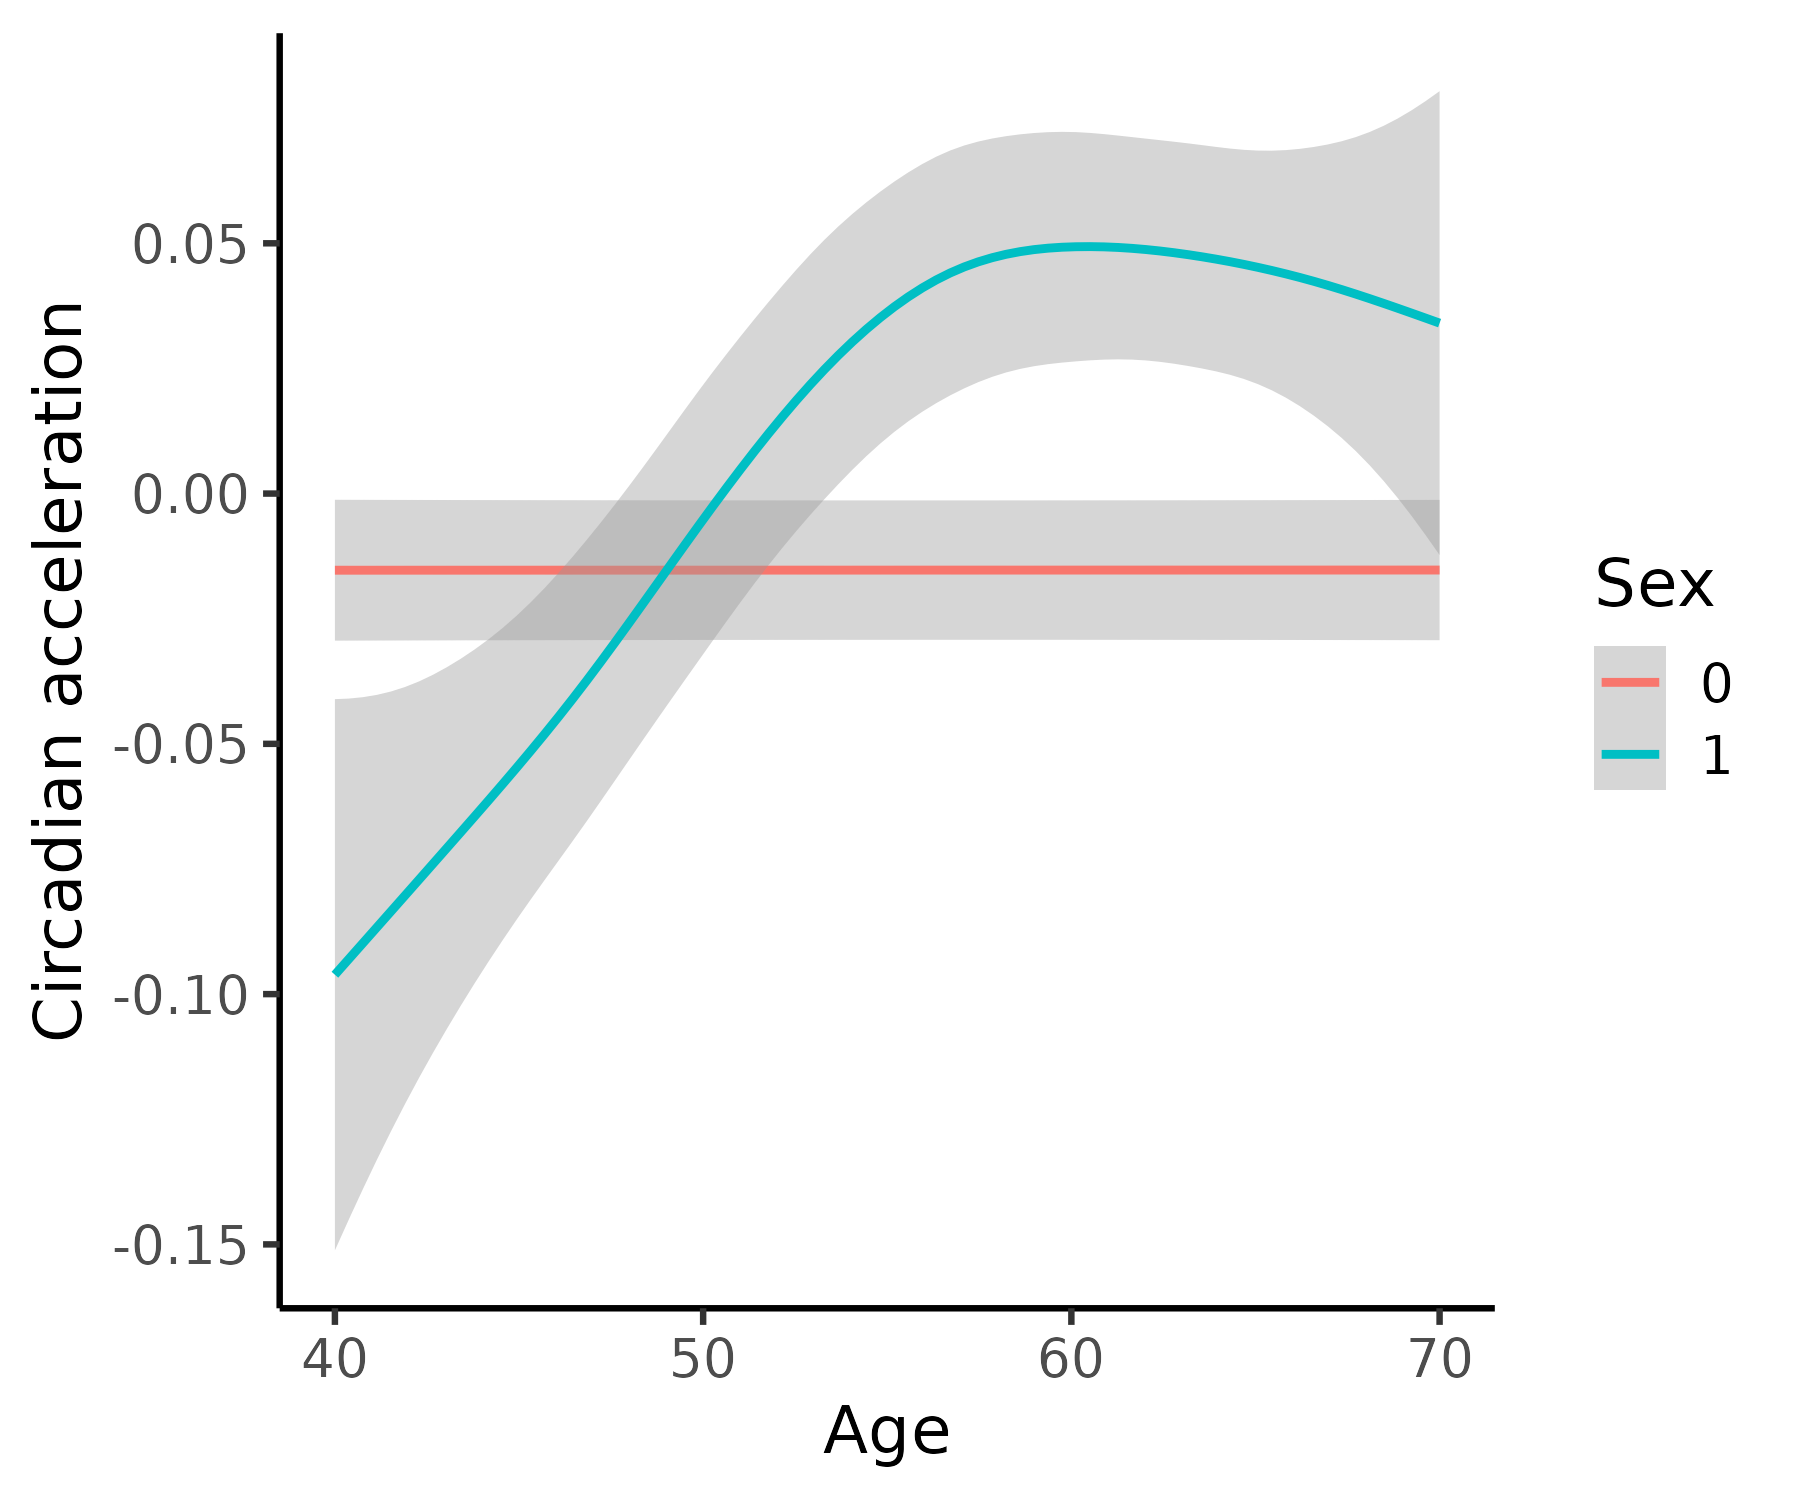
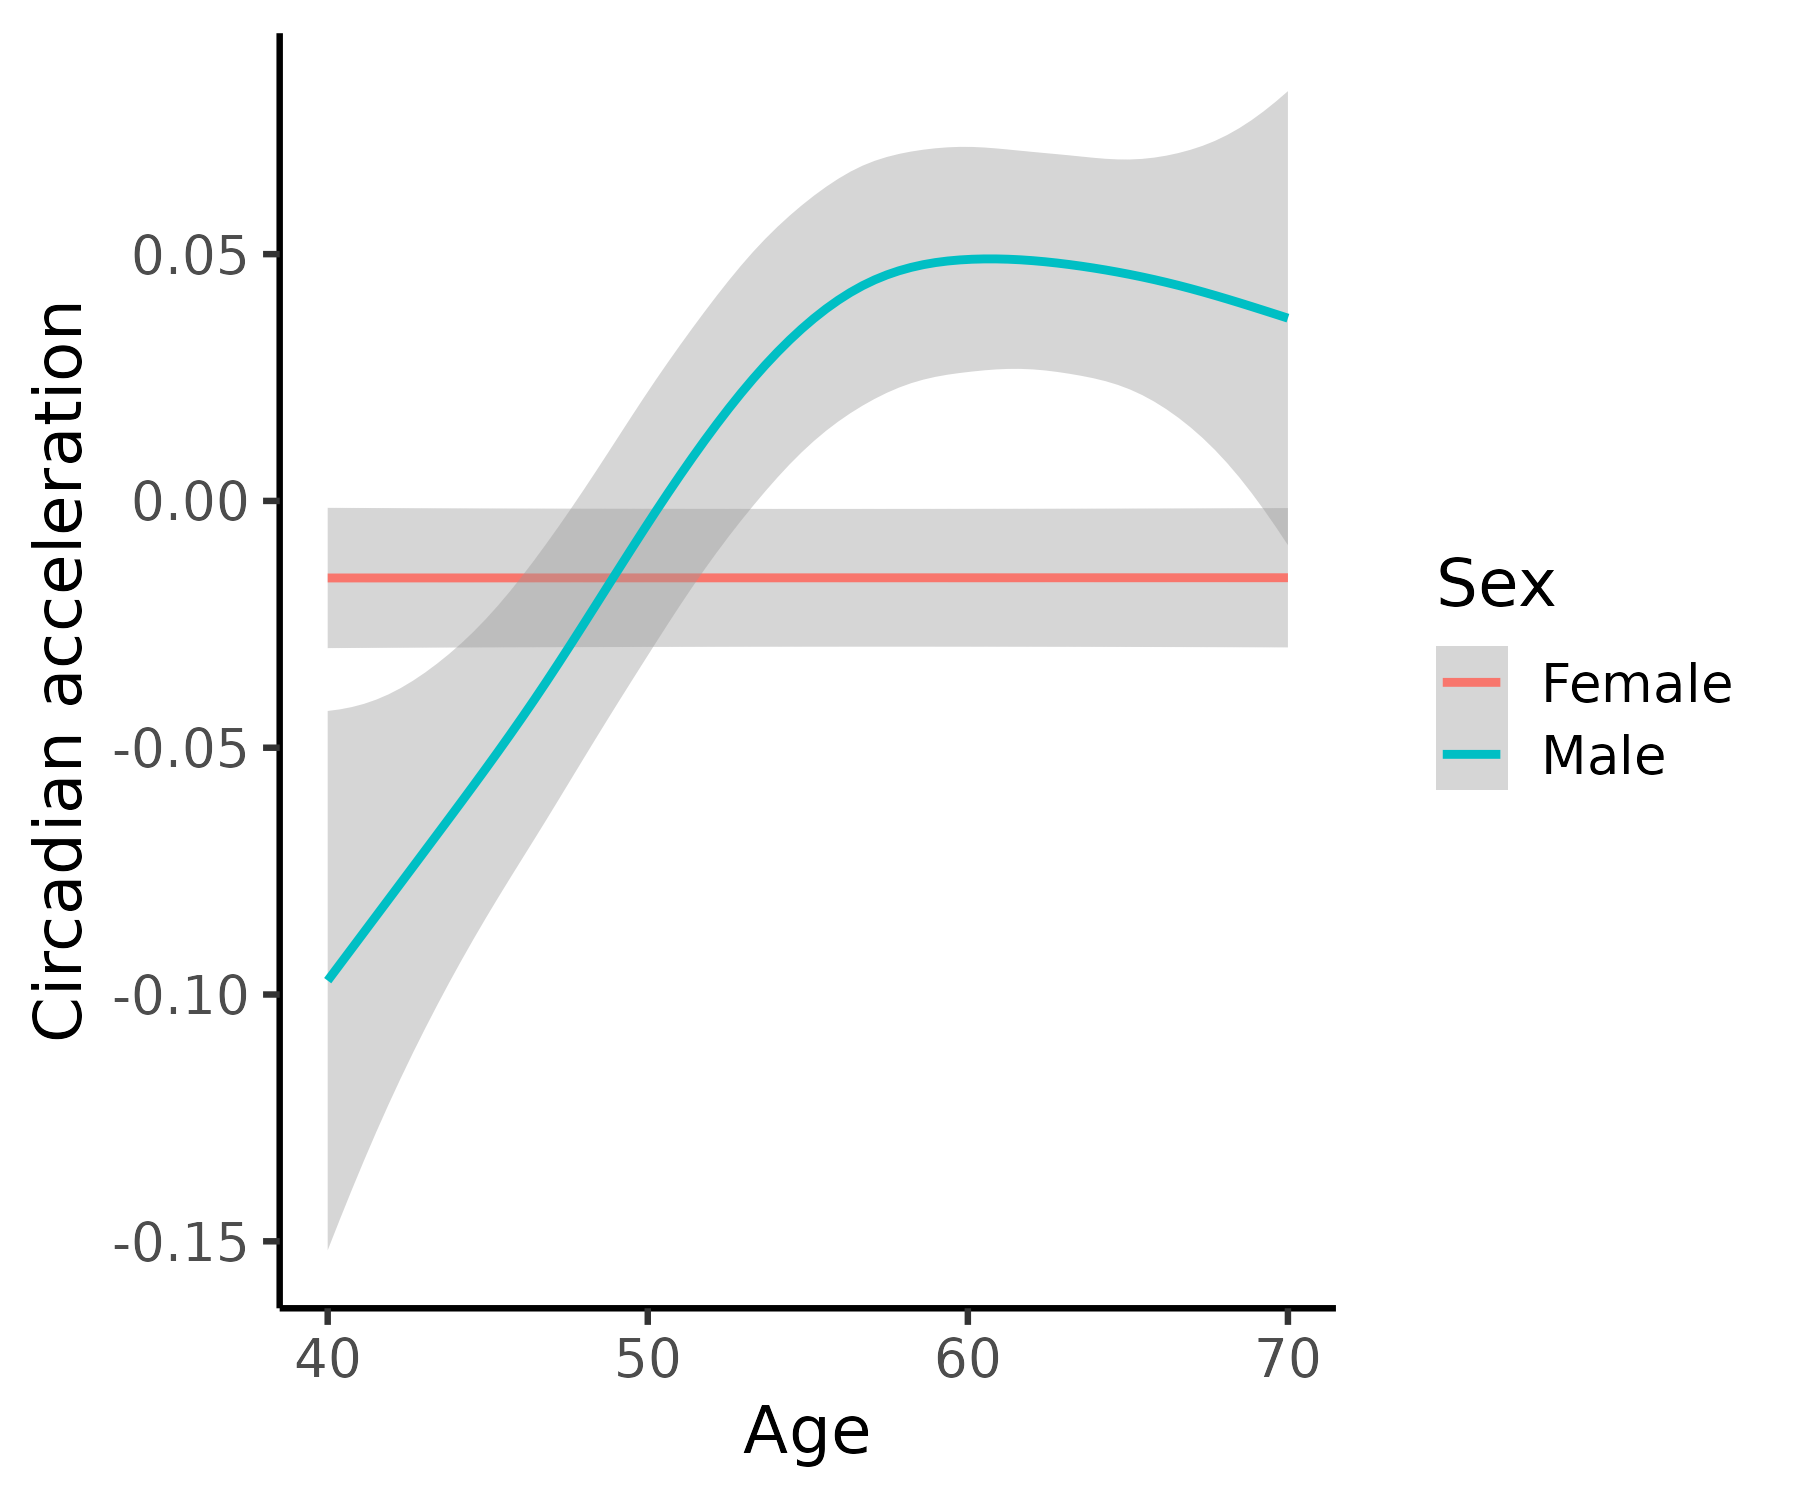
F

diff --git a/data_share/table_counts_phenotypes.html b/data_share/table_counts_phenotypes.html
@@ -11,7 +11,7 @@
 <thead>
 <tr>
 <th class="rowlabel firstrow lastrow"></th>
-<th class="firstrow lastrow"><span class="stratlabel">Overall<br /><span class="stratn">(N=52545)</span></span></th>
+<th class="firstrow lastrow"><span class="stratlabel">Overall<br /><span class="stratn">(N=52294)</span></span></th>
 </tr>
 </thead>
 <tbody>
@@ -32,12 +32,12 @@
 <td class="firstrow"></td>
 </tr>
 <tr>
-<td class="rowlabel">0</td>
-<td>28372 (54.0%)</td>
+<td class="rowlabel">Female</td>
+<td>28237 (54.0%)</td>
 </tr>
 <tr>
-<td class="rowlabel lastrow">1</td>
-<td class="lastrow">24173 (46.0%)</td>
+<td class="rowlabel lastrow">Male</td>
+<td class="lastrow">24057 (46.0%)</td>
 </tr>
 <tr>
 <td class="rowlabel firstrow"><span class="varlabel">TDI</span></td>
@@ -45,11 +45,11 @@
 </tr>
 <tr>
 <td class="rowlabel">Mean (SD)</td>
-<td>-1.18 (3.18)</td>
+<td>-1.19 (3.18)</td>
 </tr>
 <tr>
 <td class="rowlabel">Median [Q1, Q3]</td>
-<td>-2.06 [-3.62, 0.760]</td>
+<td>-2.06 [-3.62, 0.740]</td>
 </tr>
 <tr>
 <td class="rowlabel lastrow">Missing</td>
@@ -69,23 +69,23 @@
 </tr>
 <tr>
 <td class="rowlabel lastrow">Missing</td>
-<td class="lastrow">257 (0.5%)</td>
+<td class="lastrow">248 (0.5%)</td>
 </tr>
 <tr>
 <td class="rowlabel firstrow"><span class="varlabel">smoking</span></td>
 <td class="firstrow"></td>
 </tr>
 <tr>
-<td class="rowlabel">Mean (SD)</td>
-<td>0.550 (0.709)</td>
+<td class="rowlabel">Never</td>
+<td>28406 (54.3%)</td>
 </tr>
 <tr>
-<td class="rowlabel">Median [Q1, Q3]</td>
-<td>0 [0, 1.00]</td>
+<td class="rowlabel">Previous</td>
+<td>18339 (35.1%)</td>
 </tr>
 <tr>
-<td class="rowlabel lastrow">Missing</td>
-<td class="lastrow">58 (0.1%)</td>
+<td class="rowlabel lastrow">Current</td>
+<td class="lastrow">5549 (10.6%)</td>
 </tr>
 <tr>
 <td class="rowlabel firstrow"><span class="varlabel">chrono</span></td>
@@ -93,27 +93,27 @@
 </tr>
 <tr>
 <td class="rowlabel">Definitely morning</td>
-<td>12537 (23.9%)</td>
+<td>12477 (23.9%)</td>
 </tr>
 <tr>
 <td class="rowlabel">Rather morning</td>
-<td>16285 (31.0%)</td>
+<td>16242 (31.1%)</td>
 </tr>
 <tr>
 <td class="rowlabel">Don&#39;t know</td>
-<td>5624 (10.7%)</td>
+<td>5600 (10.7%)</td>
 </tr>
 <tr>
 <td class="rowlabel">Rather evening</td>
-<td>13416 (25.5%)</td>
+<td>13383 (25.6%)</td>
 </tr>
 <tr>
 <td class="rowlabel">Definitely evening</td>
-<td>4222 (8.0%)</td>
+<td>4208 (8.0%)</td>
 </tr>
 <tr>
 <td class="rowlabel lastrow">Missing</td>
-<td class="lastrow">461 (0.9%)</td>
+<td class="lastrow">384 (0.7%)</td>
 </tr>
 <tr>
 <td class="rowlabel firstrow"><span class="varlabel">h_sleep</span></td>
@@ -121,15 +121,15 @@
 </tr>
 <tr>
 <td class="rowlabel">&lt;10h</td>
-<td>50975 (97.0%)</td>
+<td>50810 (97.2%)</td>
 </tr>
 <tr>
 <td class="rowlabel">10h+</td>
-<td>1112 (2.1%)</td>
+<td>1105 (2.1%)</td>
 </tr>
 <tr>
 <td class="rowlabel lastrow">Missing</td>
-<td class="lastrow">458 (0.9%)</td>
+<td class="lastrow">379 (0.7%)</td>
 </tr>
 <tr>
 <td class="rowlabel firstrow"><span class="varlabel">wakeup</span></td>
@@ -137,23 +137,23 @@
 </tr>
 <tr>
 <td class="rowlabel">Very easy</td>
-<td>16969 (32.3%)</td>
+<td>16900 (32.3%)</td>
 </tr>
 <tr>
 <td class="rowlabel">Fairly easy</td>
-<td>25525 (48.6%)</td>
+<td>25453 (48.7%)</td>
 </tr>
 <tr>
 <td class="rowlabel">Not very easy</td>
-<td>7509 (14.3%)</td>
+<td>7483 (14.3%)</td>
 </tr>
 <tr>
 <td class="rowlabel">Not at all easy</td>
-<td>2130 (4.1%)</td>
+<td>2119 (4.1%)</td>
 </tr>
 <tr>
 <td class="rowlabel lastrow">Missing</td>
-<td class="lastrow">412 (0.8%)</td>
+<td class="lastrow">339 (0.6%)</td>
 </tr>
 <tr>
 <td class="rowlabel firstrow"><span class="varlabel">ever_insomnia</span></td>
@@ -161,19 +161,19 @@
 </tr>
 <tr>
 <td class="rowlabel">Never/rarely</td>
-<td>12495 (23.8%)</td>
+<td>12454 (23.8%)</td>
 </tr>
 <tr>
 <td class="rowlabel">Sometimes</td>
-<td>24916 (47.4%)</td>
+<td>24828 (47.5%)</td>
 </tr>
 <tr>
 <td class="rowlabel">Usually</td>
-<td>15019 (28.6%)</td>
+<td>14967 (28.6%)</td>
 </tr>
 <tr>
 <td class="rowlabel lastrow">Missing</td>
-<td class="lastrow">115 (0.2%)</td>
+<td class="lastrow">45 (0.1%)</td>
 </tr>
 <tr>
 <td class="rowlabel firstrow"><span class="varlabel">season</span></td>
@@ -181,19 +181,19 @@
 </tr>
 <tr>
 <td class="rowlabel">Winter</td>
-<td>10597 (20.2%)</td>
+<td>10537 (20.1%)</td>
 </tr>
 <tr>
 <td class="rowlabel">Fall</td>
-<td>12601 (24.0%)</td>
+<td>12537 (24.0%)</td>
 </tr>
 <tr>
 <td class="rowlabel">Spring</td>
-<td>15111 (28.8%)</td>
+<td>15046 (28.8%)</td>
 </tr>
 <tr>
 <td class="rowlabel lastrow">Summer</td>
-<td class="lastrow">14236 (27.1%)</td>
+<td class="lastrow">14174 (27.1%)</td>
 </tr>
 <tr>
 <td class="rowlabel firstrow"><span class="varlabel">is_dst</span></td>
@@ -201,11 +201,11 @@
 </tr>
 <tr>
 <td class="rowlabel">No</td>
-<td>20495 (39.0%)</td>
+<td>20373 (39.0%)</td>
 </tr>
 <tr>
 <td class="rowlabel lastrow">Yes</td>
-<td class="lastrow">32050 (61.0%)</td>
+<td class="lastrow">31921 (61.0%)</td>
 </tr>
 <tr>
 <td class="rowlabel firstrow"><span class="varlabel">shift_work</span></td>
@@ -213,23 +213,23 @@
 </tr>
 <tr>
 <td class="rowlabel">Never/rarely</td>
-<td>23448 (44.6%)</td>
+<td>23391 (44.7%)</td>
 </tr>
 <tr>
 <td class="rowlabel">Sometimes</td>
-<td>2149 (4.1%)</td>
+<td>2140 (4.1%)</td>
 </tr>
 <tr>
 <td class="rowlabel">Usually</td>
-<td>650 (1.2%)</td>
+<td>649 (1.2%)</td>
 </tr>
 <tr>
 <td class="rowlabel">Always</td>
-<td>2377 (4.5%)</td>
+<td>2372 (4.5%)</td>
 </tr>
 <tr>
 <td class="rowlabel lastrow">Missing</td>
-<td class="lastrow">23921 (45.5%)</td>
+<td class="lastrow">23742 (45.4%)</td>
 </tr>
 <tr>
 <td class="rowlabel firstrow"><span class="varlabel">night_shift</span></td>
@@ -237,23 +237,23 @@
 </tr>
 <tr>
 <td class="rowlabel">Never</td>
-<td>2510 (4.8%)</td>
+<td>2506 (4.8%)</td>
 </tr>
 <tr>
 <td class="rowlabel">Sometimes</td>
-<td>1515 (2.9%)</td>
+<td>1508 (2.9%)</td>
 </tr>
 <tr>
 <td class="rowlabel">Usually</td>
-<td>434 (0.8%)</td>
+<td>431 (0.8%)</td>
 </tr>
 <tr>
 <td class="rowlabel">Always</td>
-<td>747 (1.4%)</td>
+<td>745 (1.4%)</td>
 </tr>
 <tr>
 <td class="rowlabel lastrow">Missing</td>
-<td class="lastrow">47339 (90.1%)</td>
+<td class="lastrow">47104 (90.1%)</td>
 </tr>
 </tbody>
 </table>
